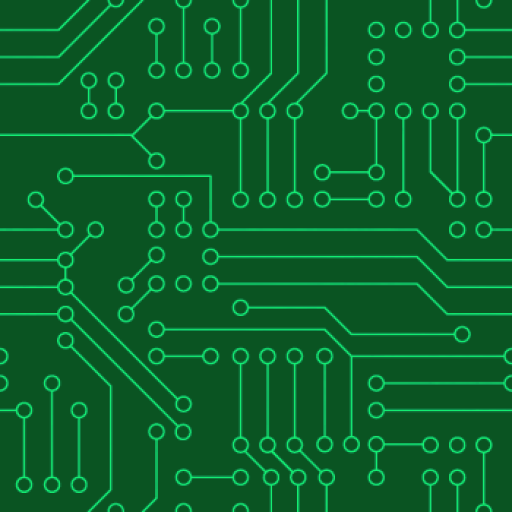
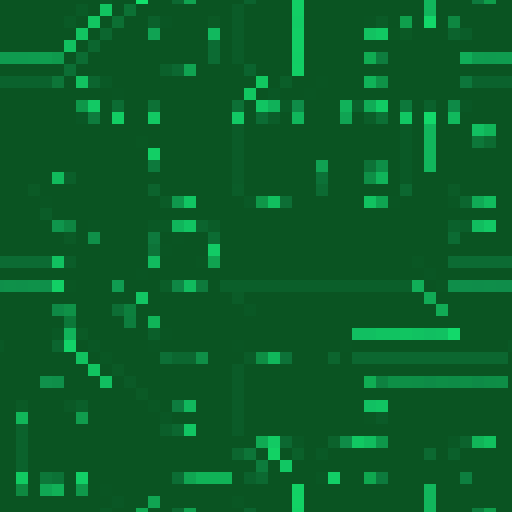
pixelated textures & fixed path issues

diff --git a/src/client/js/mobile.js b/src/client/js/mobile.js
@@ -69,7 +69,12 @@
         var url = '/token-mobile/' + phoneNumber;
         $('#controller-controls').hide(); //check
         $time = $('#time');
-
+        
+        // Setup button click event
+        $('#btnReady').on('click', function() {
+            startGame();
+        });
+        
         // Get a Sync client (with auth token from provided url)
         Twilio.Sync.CreateClient(url).then(function (client) {
             syncClient = client;

diff --git a/src/client/js/desktop.js b/src/client/js/desktop.js
@@ -569,6 +569,6 @@ $(document).ready(function () {
                     });
                 });
             });
-       }
+        }
     });
 });
